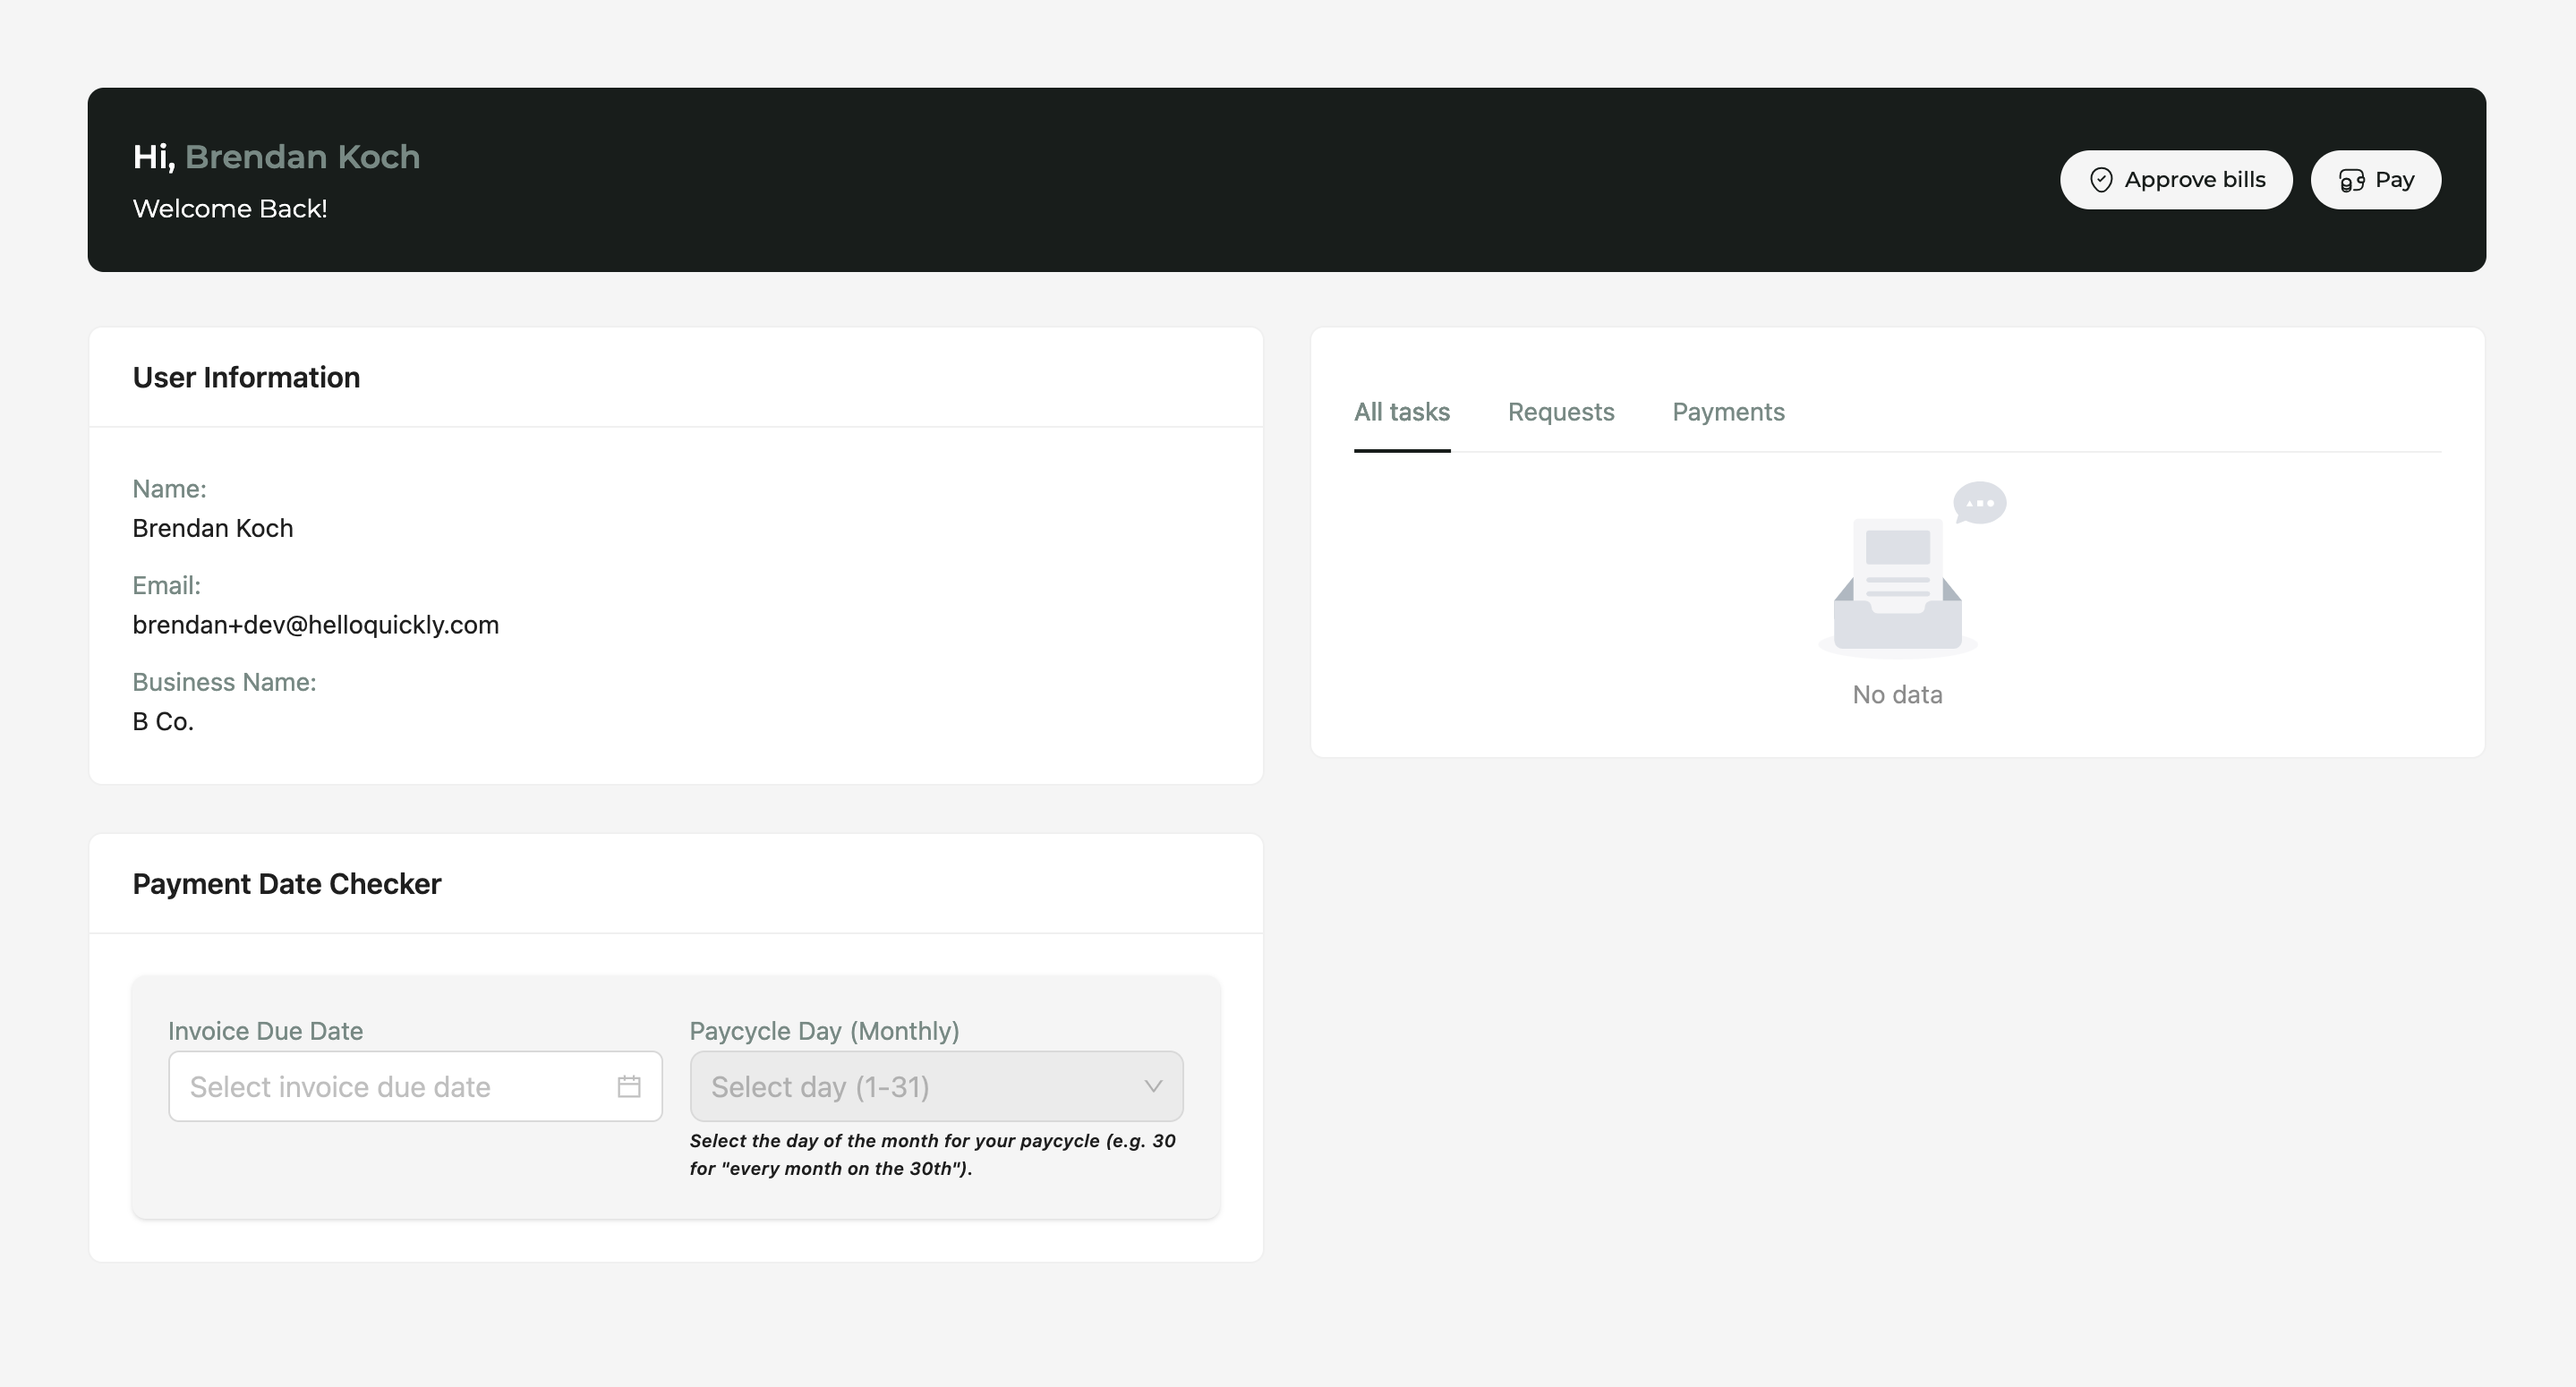
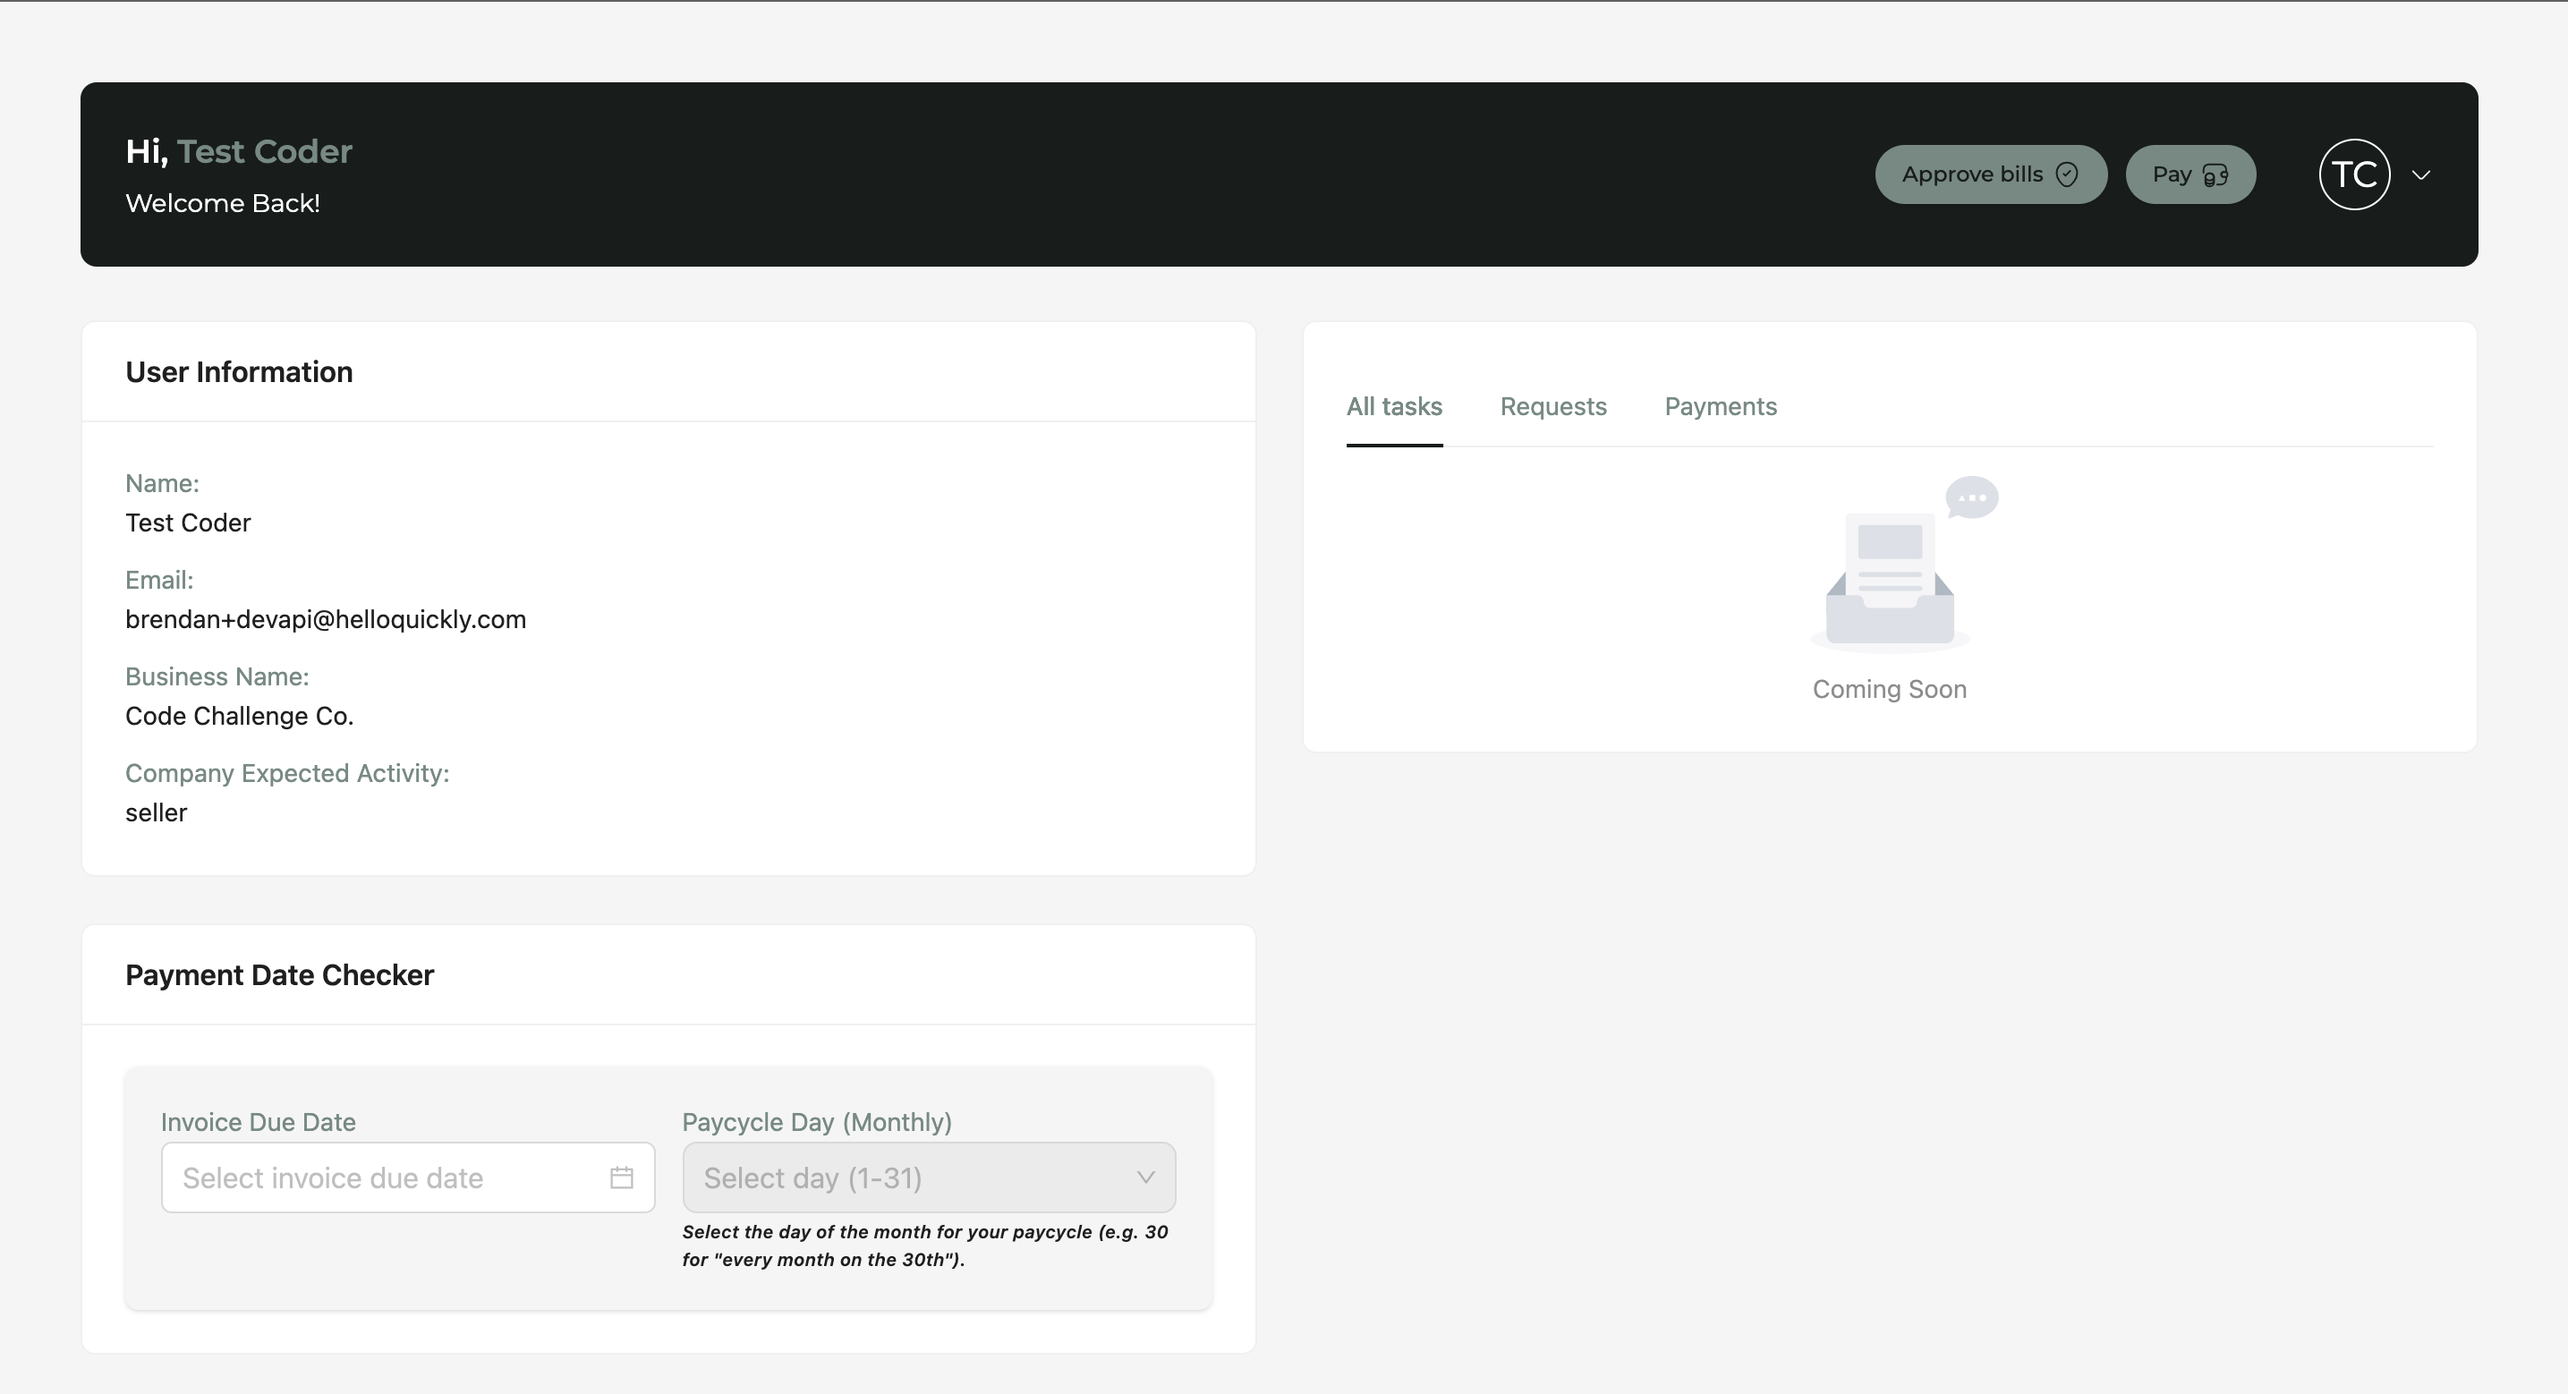
Core: error boundary added

diff --git a/src/main.tsx b/src/main.tsx
@@ -1,19 +1,23 @@
+import { QueryClient, QueryClientProvider } from "@tanstack/react-query";
+import { themeConfig } from "@utils/theme.ts";
+import { ConfigProvider } from "antd";
 import { StrictMode } from "react";
 import { createRoot } from "react-dom/client";
-import "./index.css";
+import { ErrorBoundary } from "react-error-boundary";
 import App from "./App.tsx";
-import { ConfigProvider } from "antd";
-import { themeConfig } from "@utils/theme.ts";
-import { QueryClient, QueryClientProvider } from "@tanstack/react-query";
+import "./index.css";
+import ErrorBoundaryFallBack from "@components/errors/ErrorBoundaryFallBack.tsx";
 
 const queryClient = new QueryClient();
 
 createRoot(document.getElementById("root")!).render(
   <StrictMode>
-    <QueryClientProvider client={queryClient}>
-      <ConfigProvider theme={themeConfig}>
-        <App />
-      </ConfigProvider>
-    </QueryClientProvider>
+    <ErrorBoundary fallback={<ErrorBoundaryFallBack />}>
+      <QueryClientProvider client={queryClient}>
+        <ConfigProvider theme={themeConfig}>
+          <App />
+        </ConfigProvider>
+      </QueryClientProvider>
+    </ErrorBoundary>
   </StrictMode>
 );

diff --git a/src/components/skeletons/ProfileSkeleton.tsx b/src/components/skeletons/ProfileSkeleton.tsx
@@ -12,7 +12,7 @@ const ProfileSkeleton = () => (
         <Skeleton.Input
           active
           size="small"
-          style={{ width: 120, height: 20, }}
+          style={{ width: 120, height: 20 }}
         />
       </div>
       <div className="flex gap-4 mt-4 md:mt-0">
@@ -29,7 +29,7 @@ const ProfileSkeleton = () => (
       </div>
     </div>
 
-    <div className="grid grid-cols-1 md:grid-cols-2 gap-8">
+    <div className="grid grid-cols-1 md:grid-cols-2 gap-8 overflow-hidden">
       <div className="flex flex-col gap-8">
         <div className="bg-white rounded-lg shadow p-6">
           <Skeleton
@@ -60,7 +60,7 @@ const ProfileSkeleton = () => (
       </div>
 
       <div>
-        <div className="bg-white rounded-lg shadow p-6 h-full flex flex-col">
+        <div className="bg-white rounded-lg shadow p-6 h-full flex flex-col overflow-hidden">
           <div className="border-b pb-4 mb-4">
             <div className="flex gap-8">
               <Skeleton.Input active size="small" style={{ width: 80 }} />

diff --git a/src/pages/profile/components/Header.tsx b/src/pages/profile/components/Header.tsx
@@ -42,15 +42,16 @@ const Header: React.FC<HeaderProps> = ({ fullName, avatar }) => {
         <p className="text-[1.4rem] mt-2">Welcome Back!</p>
       </div>
       <div className="flex flex-col-reverse md:flex-row items-center gap-4">
-        <CustomTag
-          label="Approve bills"
-          icon={<LocationTick color="#171d1b" size={16} />}
-        />
-        <CustomTag
-          label="Pay"
-          icon={<WalletMoney color="#171d1b" size={16} />}
-          className="mr-8"
-        />
+        <div className="hidden md:flex items-center gap-4 mr-[2.5rem]">
+          <CustomTag
+            label="Approve bills"
+            icon={<LocationTick color="#171d1b" size={16} />}
+          />
+          <CustomTag
+            label="Pay"
+            icon={<WalletMoney color="#171d1b" size={16} />}
+          />
+        </div>
 
         <Dropdown menu={profileMenu} trigger={["hover"]}>
           <div className="flex items-center">

diff --git a/src/components/errors/ErrorBoundaryFallBack.tsx b/src/components/errors/ErrorBoundaryFallBack.tsx
@@ -1,0 +1,28 @@
+const ErrorBoundaryFallBack = () => {
+  return (
+    <div className="flex flex-col items-center justify-center h-screen">
+      <img
+        src="/quickly.jpeg"
+        alt="Quickly Logo"
+        className="w-[5.5rem] rounded-full"
+      />
+      <div className="px-[2.4rem] lg:w-[65rem] text-[1.6rem] text-center mt-[2.5rem]">
+        <p className="font-bold text-[2.2rem]">
+          Oops! Something unexpected has occurred. 😟
+        </p>
+        <p className="mb-[0.8rem] ">
+          We're working to fix this. Thanks for your patience.
+        </p>
+        <p className="mt-[2.4rem]">
+          Kindly try again later or{" "}
+          <span className="font-bold underline text-BrandPrimary">
+            Contact Us
+          </span>{" "}
+          for further assistance
+        </p>
+      </div>
+    </div>
+  );
+};
+
+export default ErrorBoundaryFallBack;

diff --git a/README.md b/README.md
@@ -13,6 +13,8 @@ A modern React application built with **TypeScript**, **Vite**, **Tailwind CSS**
 ![Not_Found Page](image-1.png)
 - Responsive and accessible UI
 - **Skeleton Loaders** for improved user experience during data fetching, providing visual feedback while content is loading
+![Mobile Profile Page](image-5.png)
+![Mobile Login Page](image-6.png)
 ![Login Page Skeleton](image-3.png)
 ![Profile Page Skeleton](image-4.png)
 
